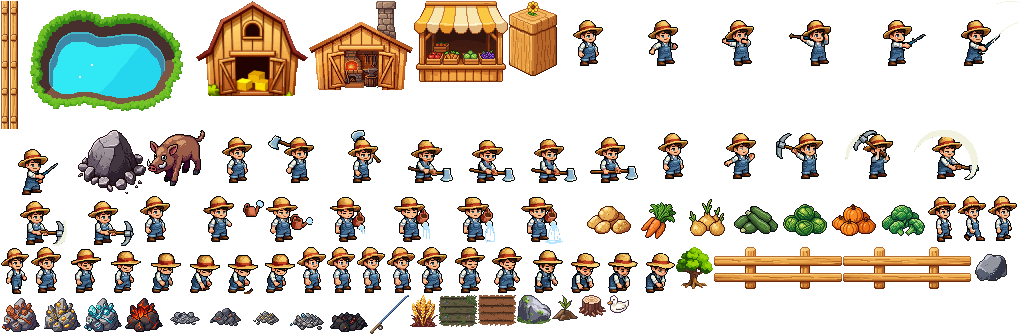
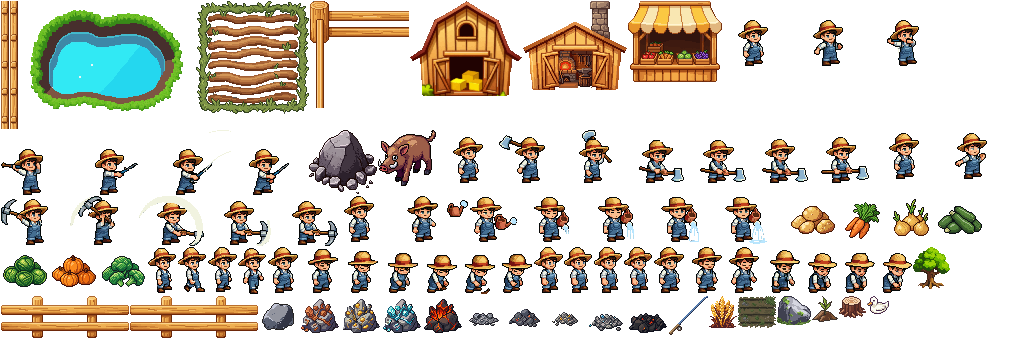
deploy mié 29/07/2026 13:04:47,82

diff --git a/public/game/farm.js b/public/game/farm.js
@@ -62,11 +62,13 @@ class FarmScene extends Phaser.Scene {
         if (!pondCell(0, r)) this.add.image(7, r * T + T, "fence_left").setDisplaySize(T * 0.22, T).setOrigin(0.5, 1).setDepth(2);
         if (!pondCell(GF.COLS - 1, r)) this.add.image(W - 7, r * T + T, "fence_right").setDisplaySize(T * 0.22, T).setOrigin(0.5, 1).setDepth(2);
       }
-      const corner = (x, y, flip, hide) => { const c2 = this.add.image(x, y, "fence_corner").setDisplaySize(T * 0.7, T * 1.05).setOrigin(0.5, 1).setDepth(y > H / 2 ? y : 3); c2.flipX = !!flip; if (hide) c2.setVisible(false); };
-      corner(9, T * 0.66, false, false);
-      corner(W - 9, T * 0.66, true, false);
-      corner(9, H + 6, false, pondCell(0, GF.ROWS - 1));
-      corner(W - 9, H + 6, true, false);
+      // esquina en L (combina travesaños horizontales + tira vertical); las 4 salen espejando
+      const cw = T * 1.08, chh = T * 1.12;
+      const mk = (x, y, ox, oy, fx, fy, hide) => { const c2 = this.add.image(x, y, "fence_corner").setDisplaySize(cw, chh).setOrigin(ox, oy).setDepth(y > H / 2 ? H + 6 : 3); c2.flipX = fx; c2.flipY = fy; if (hide) c2.setVisible(false); };
+      mk(0, 0, 0, 0, false, false, false);                          // superior izquierda (la generada)
+      mk(W, 0, 1, 0, true, false, false);                           // superior derecha
+      mk(0, H + 6, 0, 1, false, true, pondCell(0, GF.ROWS - 1));    // inferior izquierda (se oculta si la laguna toca)
+      mk(W, H + 6, 1, 1, true, true, false);                        // inferior derecha
     }
 
     // objetos del mundo (con estado para interacción)

diff --git a/public/game/boot.js b/public/game/boot.js
@@ -17,12 +17,13 @@ class BootScene extends Phaser.Scene {
      "node_stone_mined","node_bronze_mined","node_gold_mined","node_diamond_mined","node_netherite_mined"]
       .forEach(k => L.push([k, P + k + ".png"]));
     // versionados: el arte cambió y el caché de 1 día serviría el viejo
-    L.push(["plot", P + "plot.png?v=2"]);
+    L.push(["plot", P + "plot.png?v=3"]);
     L.push(["plot_blocked", P + "plot_blocked.png?v=2"]);
     L.push(["barn", P + "barn.png?v=3"]);
     L.push(["market", P + "market.png?v=3"]);
     L.push(["store", P + "store.png?v=3"]);
-    ["fence_top","fence_bottom","fence_left","fence_right","fence_corner"].forEach(k => L.push([k, P + k + ".png?v=2"]));
+    ["fence_top","fence_bottom","fence_left","fence_right"].forEach(k => L.push([k, P + k + ".png?v=2"]));
+    L.push(["fence_corner", P + "fence_corner.png?v=3"]);
     if (typeof CROP_ORDER !== "undefined") CROP_ORDER.forEach(k => L.push(["cropg_" + k, P + "cropg_" + k + ".png"]));
     return L;
   }
@@ -30,8 +31,8 @@ class BootScene extends Phaser.Scene {
   preload() {
     // ATLAS: todos los sprites del mundo en 2 archivos (mucho más liviano para el server free).
     // Si el atlas no llega, ensureAll() baja los archivos sueltos como respaldo.
-    this.load.image("__atlas", "assets/atlas.png?v=2");
-    this.load.json("__atlasmap", "assets/atlas.json?v=2");
+    this.load.image("__atlas", "assets/atlas.png?v=3");
+    this.load.json("__atlasmap", "assets/atlas.json?v=3");
 
     // barra de carga simple
     const w = this.scale.width, h = this.scale.height;
